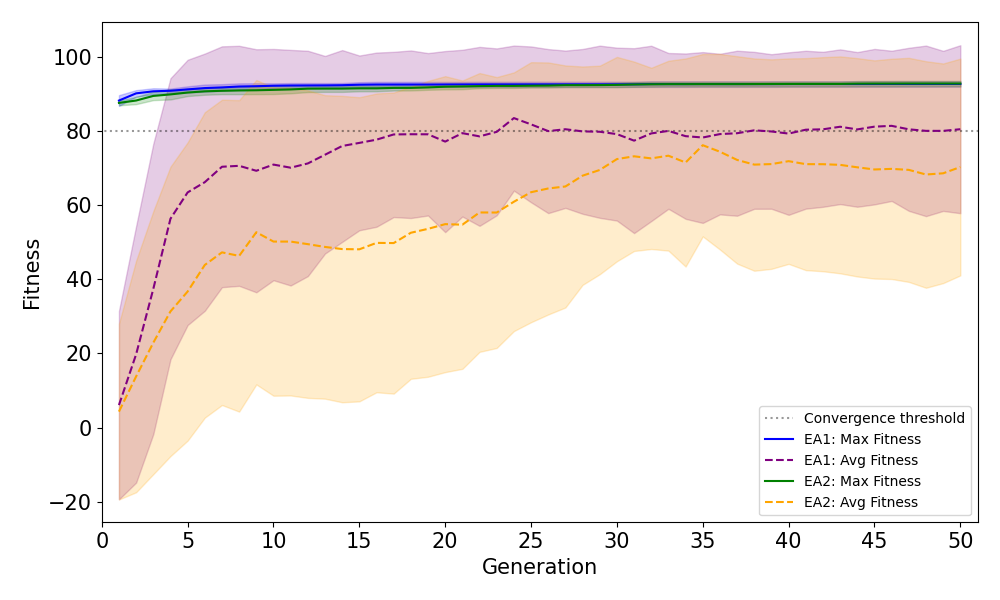
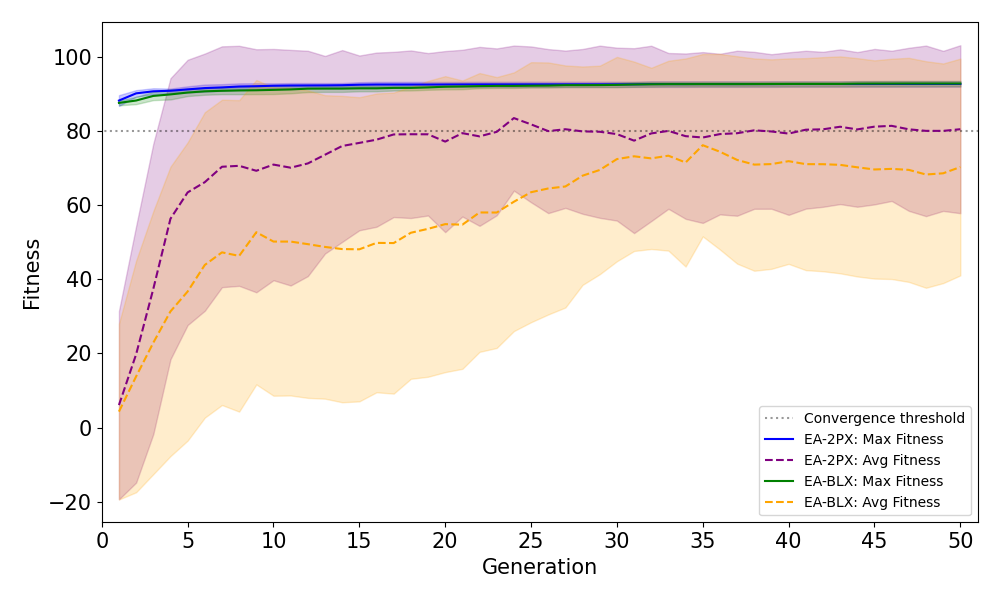
Adjusted legends

Changed region(s): [[0.806, 0.72, 0.961, 0.87]]

diff --git a/Make_graph.py b/Make_graph.py
@@ -4,7 +4,7 @@ import matplotlib.pyplot as plt
 
 # Load data from logs
 dir_name = 'optimization_test'
-enemy_number = '2'
+enemy_number = '8'
 data_2px = np.load('cx_' + enemy_number + '/logs1.npz')
 data_blendx = np.load('blend_' + enemy_number + '/logs1.npz')
 
@@ -19,22 +19,22 @@ plt.rcParams.update({'font.size': 15})
 plt.plot([-5, max(generations)+5], [80, 80], 'k:', alpha=0.4, label='Convergence threshold')
 
 # Plot EA1 max fitness
-plt.plot(generations, data_2px['max_fitness'], label='EA1: Max Fitness', color='blue', linestyle='-')
+plt.plot(generations, data_2px['max_fitness'], label='EA-2PX: Max Fitness', color='blue', linestyle='-')
 plt.fill_between(generations, data_2px['max_fitness'] - data_2px['std_fitness'],
                  data_2px['max_fitness'] + data_2px['std_fitness'], color='blue', alpha=0.2)
 
 # Plot EA1 average fitness
-plt.plot(generations, data_2px['avg_fitness'], label='EA1: Avg Fitness', color='purple', linestyle='--')
+plt.plot(generations, data_2px['avg_fitness'], label='EA-2PX: Avg Fitness', color='purple', linestyle='--')
 plt.fill_between(generations, data_2px['avg_fitness'] - data_2px['std_avg_fitness'],
                  data_2px['avg_fitness'] + data_2px['std_avg_fitness'], color='purple', alpha=0.2)
 
 # Plot EA2 max fitness
-plt.plot(generations, data_blendx['max_fitness'], label='EA2: Max Fitness', color='green', linestyle='-')
+plt.plot(generations, data_blendx['max_fitness'], label='EA-BLX: Max Fitness', color='green', linestyle='-')
 plt.fill_between(generations, data_blendx['max_fitness'] - data_blendx['std_fitness'],
                  data_blendx['max_fitness'] + data_blendx['std_fitness'], color='green', alpha=0.2)
 
 # Plot EA2 average fitness
-plt.plot(generations, data_blendx['avg_fitness'], label='EA2: Avg Fitness', color='orange', linestyle='--')
+plt.plot(generations, data_blendx['avg_fitness'], label='EA-BLX: Avg Fitness', color='orange', linestyle='--')
 plt.fill_between(generations, data_blendx['avg_fitness'] - data_blendx['std_avg_fitness'],
                  data_blendx['avg_fitness'] + data_blendx['std_avg_fitness'], color='orange', alpha=0.2)
 
